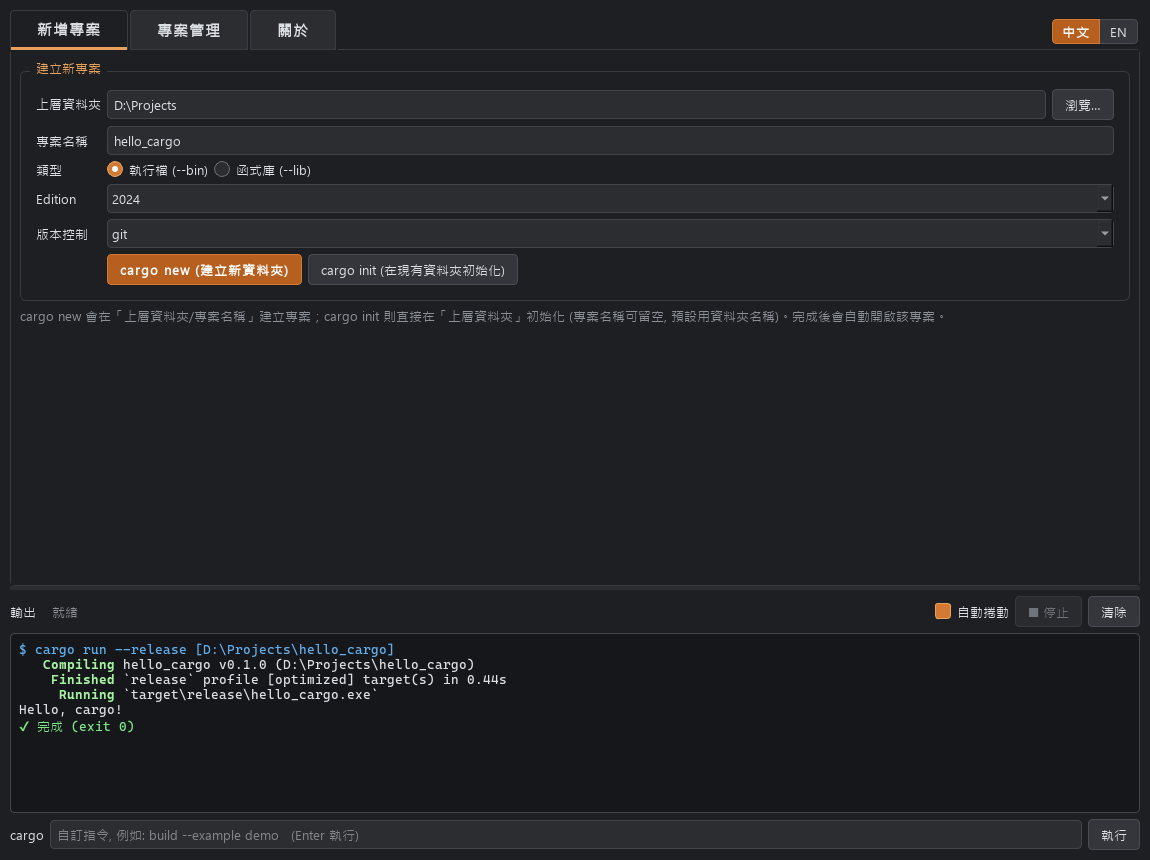
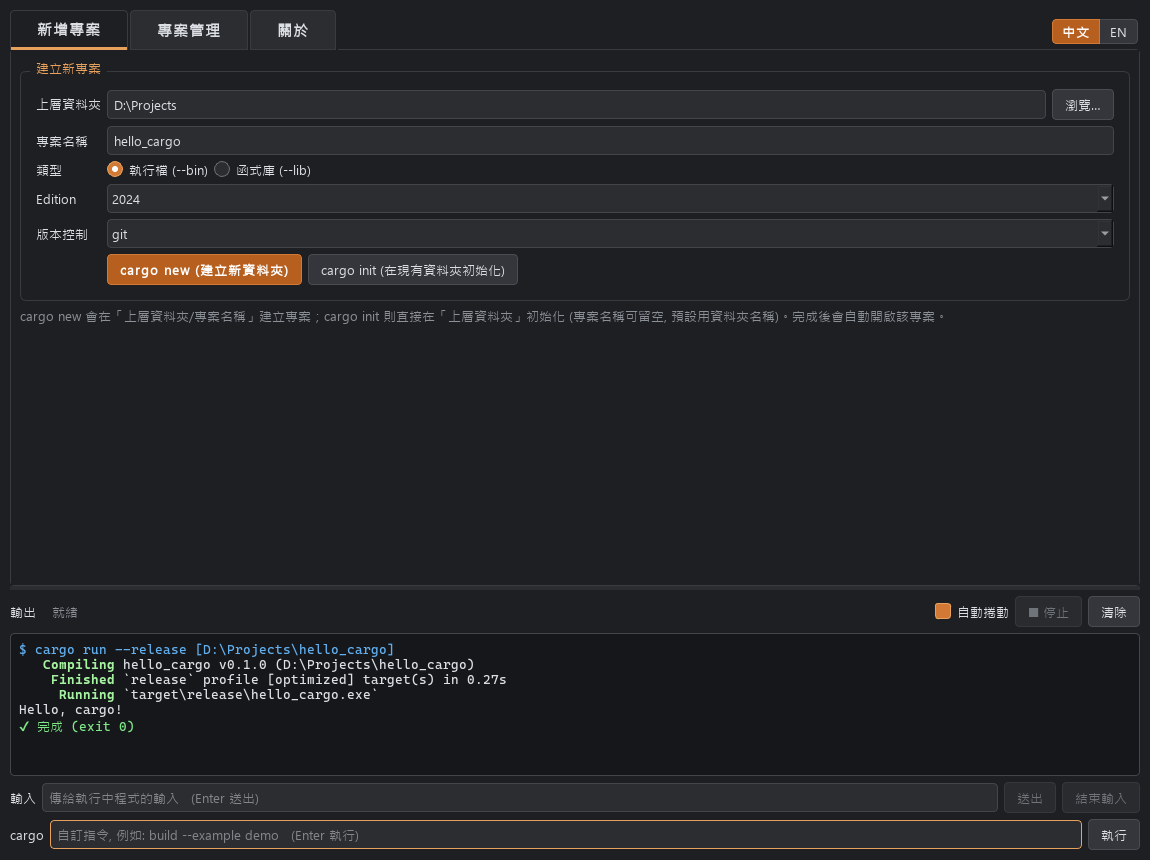
Add project rename and interactive program input
Add a Rename button that updates the [package] name and can also rename
the project folder. Add an input row that sends text or EOF to the
running program, and show prompts that do not end with a newline right
away. Bump version to 1.4.0 and refresh README screenshots.

Changed region(s): [[0.0, 0.907, 0.8826, 0.9674], [0.8826, 0.907, 0.9739, 0.9372]]

diff --git a/cargo_manager.py b/cargo_manager.py
@@ -3,14 +3,14 @@
 Cargo Manager — Rust cargo 圖形化管理工具 (PySide6, 深色模式)
 
 功能:
-  * 開啟 / 最近專案、顯示 Cargo.toml 資訊 (支援 workspace 成員選擇)
+  * 開啟 / 最近專案、顯示 Cargo.toml 資訊 (支援 workspace 成員選擇)、重新命名專案
   * build / run / check / test / bench / clippy / fmt / doc / clean / update / tree
     - release、features、all-features、no-default-features、target triple、額外參數、run 參數
   * 自訂 cargo 指令
   * 相依套件: 列表 (cargo metadata)、cargo add / remove / update -p、crates.io 搜尋 (cargo search)
   * 新專案: cargo new / cargo init (bin / lib, edition, vcs)
   * 工具鏈: rustup show / update / toolchain / target add、cargo install / uninstall
-  * 輸出視窗支援 ANSI 色彩、可中止執行中的程序
+  * 輸出視窗支援 ANSI 色彩、可中止執行中的程序、可輸入內容給執行中的程式
   * 指令說明: 可搜尋的 cargo 指令用途與範例
   * 介面語系: 繁體中文 / English (主分頁右上角切換)
   * 設定存於程式同目錄的 cargo_manager_settings.json
@@ -34,7 +34,7 @@ from functools import partial
 from pathlib import Path
 
 from PySide6.QtCore import QByteArray, QProcess, QProcessEnvironment, Qt, QUrl
-from PySide6.QtGui import (QColor, QDesktopServices, QFont, QIcon, QPalette,
+from PySide6.QtGui import (QColor, QDesktopServices, QFont, QIcon, QPalette, QTextCharFormat,
                            QTextCursor)
 from PySide6.QtWidgets import (
     QAbstractButton, QAbstractItemView, QApplication, QButtonGroup, QCheckBox,
@@ -44,7 +44,7 @@ from PySide6.QtWidgets import (
     QTableWidget, QTableWidgetItem, QTabWidget, QVBoxLayout, QWidget)
 
 APP_NAME = "Cargo Manager"
-APP_VERSION = "1.2.3"
+APP_VERSION = "1.4.0"
 IS_WIN = sys.platform.startswith("win")
 EXE_SUFFIX = ".exe" if IS_WIN else ""
 
@@ -320,6 +320,12 @@ EN = {
     "自動捲動": "Auto-scroll",
     "■ 停止": "■ Stop",
     "清除": "Clear",
+    "輸入": "Input",
+    "傳給執行中程式的輸入   (Enter 送出)": "Input for the running program   (Enter to send)",
+    "送出": "Send",
+    "結束輸入": "End input",
+    "關閉標準輸入 (EOF)，用於會讀取到輸入結尾的程式":
+        "Close standard input (EOF) for programs that read until the end of input",
     "自訂指令, 例如: build --example demo   (Enter 執行)":
         "Custom command, e.g. build --example demo   (Enter to run)",
     "執行": "Run",
@@ -506,6 +512,23 @@ EN = {
     "已載入 {n} 個已安裝 target": "Loaded {n} installed target(s)",
     "請先開啟專案並輸入 toolchain。": "Please open a project and enter a toolchain first.",
     "請先開啟專案。": "Please open a project first.",
+    "重新命名": "Rename",
+    "重新命名專案": "Rename Project",
+    "新名稱": "New name",
+    "同時把資料夾改成新名稱": "Also rename the folder to the new name",
+    "會修改 Cargo.toml 的套件名稱。程式碼中以舊名稱引用此 crate 的地方 (例如 use 陳述式) 需要自行修改。":
+        "This changes the package name in Cargo.toml. Update any code that refers to this crate "
+        "by its old name (such as use statements) yourself.",
+    "名稱只能包含英文字母、數字、- 與 _，且不可以數字或 - 開頭。":
+        "Names can only contain letters, digits, - and _, and cannot start with a digit or -.",
+    "名稱沒有變更。": "The name has not changed.",
+    "目前只支援單一套件的專案，workspace 請手動修改 Cargo.toml。":
+        "Only single-package projects are supported. For a workspace, edit Cargo.toml by hand.",
+    "資料夾已存在:\n{target}": "Folder already exists:\n{target}",
+    "在 Cargo.toml 的 [package] 找不到 name。": "Could not find name under [package] in Cargo.toml.",
+    "重新命名失敗 (資料夾可能正被 VS Code 等程式使用):\n{ex}":
+        "Rename failed (the folder may be in use by a program such as VS Code):\n{ex}",
+    "已重新命名專案: {old} → {new}": "Renamed project: {old} → {new}",
     "請先在表格中選取要移除的套件。": "Please select the packages to remove in the table first.",
     "確定移除: {names} ?": "Remove: {names} ?",
     "請先在表格中選取套件 (未選取請用「建置」頁的 update)。":
@@ -634,6 +657,63 @@ def apply_i18n(items: list):
 
 
 # ──────────────────────────────────────────────────────────── 新增相依對話框
+PACKAGE_NAME_RE = re.compile(r"[A-Za-z_][A-Za-z0-9_-]*")
+
+
+def rename_manifest(text: str, new_name: str) -> str | None:
+    """只改 [package] 區段的 name, 其餘內容與格式不動; 找不到時回傳 None。"""
+    lines = text.splitlines(keepends=True)
+    in_package = False
+    for i, line in enumerate(lines):
+        stripped = line.strip()
+        if stripped.startswith("["):
+            in_package = stripped.split("#")[0].strip() == "[package]"
+        elif in_package:
+            m = re.match(r"""(\s*name\s*=\s*)("[^"]*"|'[^']*')(.*)""", line, re.S)
+            if m:
+                lines[i] = f'{m[1]}"{new_name}"{m[3]}'
+                return "".join(lines)
+    return None
+
+
+class RenameProjectDialog(QDialog):
+    def __init__(self, parent, name: str, folder: str):
+        super().__init__(parent)
+        self.old_name = name
+        self.folder = folder
+        self.setWindowTitle(t("重新命名專案"))
+        self.setMinimumWidth(460)
+        form = QFormLayout(self)
+        self.ed_name = QLineEdit(name)
+        self.ed_name.selectAll()
+        self.chk_folder = QCheckBox("同時把資料夾改成新名稱")
+        self.chk_folder.setChecked(folder == name)
+        hint = QLabel("會修改 Cargo.toml 的套件名稱。程式碼中以舊名稱引用此 crate 的地方 (例如 use 陳述式) 需要自行修改。")
+        hint.setObjectName("muted")
+        hint.setWordWrap(True)
+        form.addRow("新名稱", self.ed_name)
+        form.addRow("", self.chk_folder)
+        form.addRow(hint)
+        bb = QDialogButtonBox(QDialogButtonBox.Ok | QDialogButtonBox.Cancel)
+        bb.accepted.connect(self._accept)
+        bb.rejected.connect(self.reject)
+        form.addRow(bb)
+        apply_i18n(collect_i18n(self))
+
+    def _accept(self):
+        name = self.ed_name.text().strip()
+        if not PACKAGE_NAME_RE.fullmatch(name):
+            QMessageBox.warning(self, APP_NAME, t("名稱只能包含英文字母、數字、- 與 _，且不可以數字或 - 開頭。"))
+            return
+        if name == self.old_name and (not self.chk_folder.isChecked() or name == self.folder):
+            QMessageBox.information(self, APP_NAME, t("名稱沒有變更。"))
+            return
+        self.accept()
+
+    def values(self) -> tuple:
+        return self.ed_name.text().strip(), self.chk_folder.isChecked()
+
+
 class AddDependencyDialog(QDialog):
     def __init__(self, parent=None, name="", version=""):
         super().__init__(parent)
@@ -716,6 +796,7 @@ class MainWindow(QMainWindow):
         self.quiet_procs = set()
         self.ansi = AnsiConverter()
         self._partial = ""
+        self._partial_cursor = None  # 已顯示但未換行的那一行
         self.metadata = None
         self.busy_buttons = []
         self._status = ("就緒", {})  # 目前狀態列的 (中文範本, 代入值), 切換語系時重繪
@@ -753,6 +834,7 @@ class MainWindow(QMainWindow):
         b = QPushButton("重新整理")
         b.clicked.connect(self.refresh_project)
         top.addWidget(b)
+        top.addWidget(self._btn("重新命名", self.rename_project))
         b = QPushButton("檔案總管")
         b.clicked.connect(self.open_in_explorer)
         top.addWidget(b)
@@ -830,6 +912,23 @@ class MainWindow(QMainWindow):
         self.console.setFont(mono)
         self.console.setStyleSheet("QPlainTextEdit{background:#16171a;}")
         ol.addWidget(self.console, 1)
+
+        # 傳給執行中程式的輸入
+        ih = QHBoxLayout()
+        ih.addWidget(QLabel("輸入"))
+        self.ed_stdin = QLineEdit()
+        self.ed_stdin.setPlaceholderText("傳給執行中程式的輸入   (Enter 送出)")
+        self.ed_stdin.returnPressed.connect(self.send_stdin)
+        ih.addWidget(self.ed_stdin, 1)
+        self.btn_send_stdin = QPushButton("送出")
+        self.btn_send_stdin.clicked.connect(self.send_stdin)
+        ih.addWidget(self.btn_send_stdin)
+        self.btn_close_stdin = QPushButton("結束輸入")
+        self.btn_close_stdin.setToolTip("關閉標準輸入 (EOF)，用於會讀取到輸入結尾的程式")
+        self.btn_close_stdin.clicked.connect(self.close_stdin)
+        ih.addWidget(self.btn_close_stdin)
+        ol.addLayout(ih)
+        self._set_stdin_enabled(False)
 
         # 自訂指令
         ch = QHBoxLayout()
@@ -1528,6 +1627,49 @@ class MainWindow(QMainWindow):
                     it.setData(Qt.UserRole, (d.get("rename") or d["name"], d["name"], d.get("kind")))
                 self.tbl_deps.setItem(r, c, it)
 
+    def rename_project(self):
+        d = self.project_dir()
+        if not d:
+            QMessageBox.warning(self, APP_NAME, t("請先開啟專案。"))
+            return
+        src = Path(d)
+        manifest = src / "Cargo.toml"
+        pkgs = (self.metadata or {}).get("packages", [])
+        if len(pkgs) != 1 or os.path.normcase(pkgs[0]["manifest_path"]) != os.path.normcase(str(manifest)):
+            QMessageBox.warning(self, APP_NAME, t("目前只支援單一套件的專案，workspace 請手動修改 Cargo.toml。"))
+            return
+        dlg = RenameProjectDialog(self, pkgs[0]["name"], src.name)
+        if dlg.exec() != QDialog.Accepted:
+            return
+        new_name, rename_folder = dlg.values()
+        target = src.with_name(new_name) if rename_folder else src
+        # Windows 的 Path 比較不分大小寫, 只改大小寫時也要改名, 所以比較字串
+        move = str(target) != str(src)
+        if move and target.exists() and not target.samefile(src):
+            QMessageBox.warning(self, APP_NAME, t("資料夾已存在:\n{target}").format(target=target))
+            return
+        try:
+            raw = manifest.read_bytes()  # 用 bytes 讀寫以保留原本的換行字元
+            updated = rename_manifest(raw.decode("utf-8"), new_name)
+            if updated is None:
+                QMessageBox.warning(self, APP_NAME, t("在 Cargo.toml 的 [package] 找不到 name。"))
+                return
+            manifest.write_bytes(updated.encode("utf-8"))
+            if move:
+                try:
+                    src.rename(target)
+                except OSError:
+                    manifest.write_bytes(raw)
+                    raise
+        except (OSError, UnicodeDecodeError) as ex:
+            QMessageBox.warning(self, APP_NAME,
+                                t("重新命名失敗 (資料夾可能正被 VS Code 等程式使用):\n{ex}").format(ex=ex))
+            return
+        if move:
+            self.cb_project.removeItem(self.cb_project.findText(d))
+        self.log_info(t("已重新命名專案: {old} → {new}").format(old=pkgs[0]["name"], new=new_name))
+        self.open_project(str(target))
+
     def open_in_explorer(self):
         d = self.project_dir()
         if d:
@@ -1566,6 +1708,7 @@ class MainWindow(QMainWindow):
             return
         data = bytes(self.proc.readAllStandardOutput()).decode("utf-8", errors="replace")
         data = data.replace("\r\n", "\n")
+        self._remove_partial_view()
         text = self._partial + data
         lines = text.split("\n")
         self._partial = lines.pop()
@@ -1574,8 +1717,64 @@ class MainWindow(QMainWindow):
             if "\r" in line:
                 line = line.split("\r")[-1]
             self.console.appendHtml(self.ansi.convert(line))
-        if lines:
+        self._show_partial()
+        if lines or self._partial:
             self._scroll()
+
+    def _show_partial(self):
+        """顯示尚未換行的輸出 (例如等待輸入的提示), 收到後續內容時會重繪。"""
+        shown = self._partial.split("\r")[-1]
+        if not shown:
+            return
+        if shown.endswith(" "):  # 行尾空白會被 HTML 吃掉
+            shown = shown[:-1] + " "
+        state = self.ansi.fg, self.ansi.bold
+        self.console.appendHtml(self.ansi.convert(shown))
+        self.ansi.fg, self.ansi.bold = state
+        self._partial_cursor = QTextCursor(self.console.document().lastBlock())
+
+    def _remove_partial_view(self):
+        if self._partial_cursor:
+            self._partial_cursor.select(QTextCursor.BlockUnderCursor)
+            self._partial_cursor.removeSelectedText()
+            self._partial_cursor = None
+
+    # ───────────────────────── 程式輸入
+    def _set_stdin_enabled(self, on: bool):
+        for w in (self.ed_stdin, self.btn_send_stdin, self.btn_close_stdin):
+            w.setEnabled(on)
+
+    def send_stdin(self):
+        if not self.is_running() or not self.ed_stdin.isEnabled():
+            return
+        text = self.ed_stdin.text()
+        self.ed_stdin.clear()
+        self.proc.write((text + "\n").encode("utf-8"))
+        self._echo_input(text)
+
+    def _echo_input(self, text: str):
+        """把使用者的輸入顯示在輸出區; 有未換行的提示時接在提示後面。"""
+        color = "#e8a15c"
+        doc = self.console.document()
+        if self._partial_cursor and self._partial_cursor.block() == doc.lastBlock():
+            self.ansi.convert(self._partial)  # 這段已定案, 更新跨行色彩狀態
+            self._partial = ""
+            self._partial_cursor = None
+            fmt = QTextCharFormat()
+            fmt.setForeground(QColor(color))
+            cursor = QTextCursor(doc)
+            cursor.movePosition(QTextCursor.End)
+            cursor.insertText(text, fmt)
+            self._scroll()
+        else:
+            shown = html.escape(text).replace("  ", "&nbsp;&nbsp;") or "&nbsp;"
+            self.console.appendHtml(f'<span style="color:{color}">{shown}</span>')
+            self._scroll()
+
+    def close_stdin(self):
+        if self.is_running():
+            self.proc.closeWriteChannel()
+            self._set_stdin_enabled(False)
 
     # ───────────────────────── 執行程序
     def _env(self, extra_env: dict | None = None, color=True) -> QProcessEnvironment:
@@ -1611,6 +1810,7 @@ class MainWindow(QMainWindow):
             self.console.clear()
         self.ansi.reset()
         self._partial = ""
+        self._partial_cursor = None
         shown = " ".join(quote_arg(a) for a in [Path(program).stem] + args)
         self.log_info(f"\n$ {shown}" + (f"    [{cwd}]" if cwd else ""), "#61afef")
 
@@ -1631,9 +1831,8 @@ class MainWindow(QMainWindow):
             self._set_busy(False)
 
     def _on_finished(self, code, status, on_done):
-        if self._partial:
-            self.console.appendHtml(self.ansi.convert(self._partial))
-            self._partial = ""
+        self._partial = ""  # 未換行的內容已由 _show_partial 顯示
+        self._partial_cursor = None
         if status == QProcess.CrashExit:
             self.log_info(t("■ 程序已中止"), "#e5c07b")
         elif code == 0:
@@ -1648,9 +1847,12 @@ class MainWindow(QMainWindow):
         self.btn_stop.setEnabled(busy)
         for b in self.busy_buttons:
             b.setEnabled(not busy)
+        self._set_stdin_enabled(busy)
         if busy:
+            self.ed_stdin.setFocus()
             self._set_status("執行中: {text}", text=text)
         else:
+            self.ed_stdin.clear()
             self._set_status("就緒")
 
     def stop_process(self):

diff --git a/CLAUDE.md b/CLAUDE.md
@@ -43,6 +43,7 @@ Rust cargo 的 PySide6 深色模式 GUI 管理工具。單一檔案 `cargo_manag
 | `AnsiConverter` | cargo 彩色輸出（ANSI SGR）→ HTML span，跨行保留狀態 |
 | `DARK_QSS` / `apply_dark()` | 深色主題 |
 | `EN` / `t()` / `collect_i18n()` / `apply_i18n()` | 語系：以繁中原文為 key 的英文對照表；`collect_i18n` 掃描靜態文字，`MainWindow._retranslate()` 切換時重繪 |
+| `rename_manifest()` / `RenameProjectDialog` / `rename_project` | 只改 `[package]` 的 `name` 並保留檔案格式；資料夾改名失敗時還原 `Cargo.toml` |
 | `AddDependencyDialog` | `cargo add` 對話框，`build_args()` 組參數（版本 / features / dev / build / optional / path / git） |
 | `MainWindow._build_ui()` | 主版面：主分頁 + 輸出區 |
 | `_tab_new / _tab_build / _tab_deps / _tab_toolchain / _tab_settings / _tab_help / _tab_about` | 各分頁 |
@@ -69,20 +70,20 @@ Rust cargo 的 PySide6 深色模式 GUI 管理工具。單一檔案 `cargo_manag
 - `run_quiet` 的 callback 需容忍 QProcess 已被銷毀（視窗關閉時），已用 `try/except RuntimeError` 保護。
 - 語系：程式內字串仍寫繁體中文，並在 `EN` 加上英文對照（英文不可含 `&`，會被當成快捷鍵）。靜態元件文字建好後會自動納入切換；執行期才產生的文字用 `t("...{x}").format(x=...)`（不要用 f-string 當 key）；會停留在畫面上的動態文字要能在 `_retranslate()` 重繪（狀態列 `_set_status`、專案資訊 `_set_info`）。
 
-## 功能清單（目前 v1.2.3）
+## 功能清單（目前 v1.4.0）
 
 - **語系**：主分頁列右上角切換繁體中文 / English，立即生效，存於 JSON 的 `ui.language`（預設繁中）；已輸出的記錄與 cargo 輸出不翻譯。
 
 - **新增專案**：`cargo new` / `cargo init`，bin/lib、edition 2015–2024、vcs。
 - **專案管理**
-  - 專案列：最近 15 個專案、瀏覽、重新整理、檔案總管、VS Code（`code` 指令）。
+  - 專案列：最近 15 個專案、瀏覽、重新整理、重新命名（改 `[package] name`，可同時改資料夾；僅限單一套件專案）、檔案總管、VS Code（`code` 指令）。
   - 建置/執行：run、build、check、test、bench、clippy、clippy --fix、fmt、fmt --check、doc --open、clean、update、tree、fix；選項 release / all-features / no-default-features / workspace / -v / features / target（可載入 rustup 已安裝 target）/ --bin / 額外參數 / 程式參數（`--` 後）/ 環境變數。
   - 相依套件：表格（名稱、版本需求、類型、features、optional、來源）、新增、移除、`update -p`、crates.io 搜尋（`cargo search`，雙擊加入）。
   - 工具鏈/安裝：rustup show/update/toolchain/target/component、default、override set/unset、target add/remove；`cargo install`（--locked/--force）/ uninstall / `install --path .`。
   - 設定：cargo / rustup 路徑（自動偵測、瀏覽、儲存並檢查）、清除最近專案、執行前清除輸出。
   - 指令說明：cargo 各指令的分類、用途與範例表格，可依關鍵字即時篩選。
 - **關於**：圖示、名稱、版本、簡介、作者、Python/PySide6/cargo/rustc/rustup 版本、設定檔路徑、相關連結。
-- 輸出區：ANSI 彩色、自動捲動、停止、清除；底部自訂 `cargo ...` 指令。
+- 輸出區：ANSI 彩色、自動捲動、停止、清除；未換行的提示會立即顯示；輸入列（`send_stdin`，僅主程序執行中可用）可傳文字給執行中的程式，「結束輸入」送出 EOF；底部自訂 `cargo ...` 指令。
 
 ## 測試
 
@@ -100,4 +101,4 @@ QT_QPA_PLATFORM=offscreen python3 test_script.py
 
 ## 版本
 
-- 修改功能時同步更新 `APP_VERSION`（目前 `1.2.3`）與本檔「功能清單」。
+- 修改功能時同步更新 `APP_VERSION`（目前 `1.4.0`）與本檔「功能清單」。
